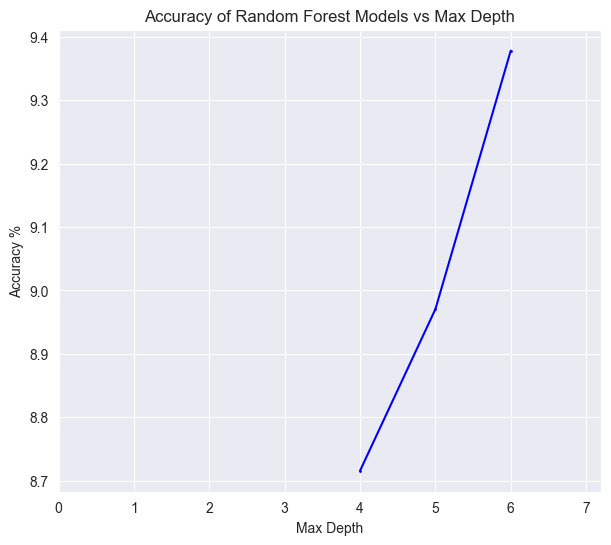
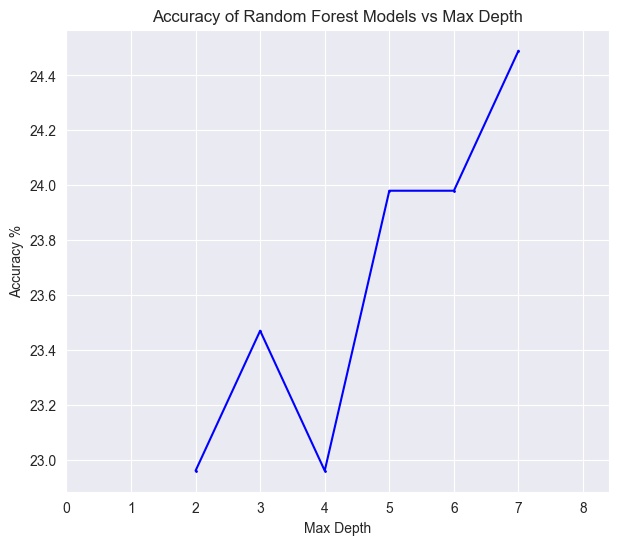
better reults with genre consolidation and cosine distance

diff --git a/LyricLibrary.py b/LyricLibrary.py
@@ -22,7 +22,7 @@ class LyricLibrary:
     This class can download song data from spotify and genius.
     """
     # columns = ['name', 'artists', 'genre', 'spotifyID', 'lyrics']
-    song_data = pd.read_csv("lyrics_200_per.csv").drop(columns=['Unnamed: 0']).dropna().reset_index(drop=True)
+    song_data = pd.read_csv("lyrics_5000.csv").drop(columns=['Unnamed: 0']).dropna().reset_index(drop=True)
     # Accuracy results
     knn_results = pd.DataFrame(columns=["Number Neighbors", "Accuracy"])
     # TODO: Should we use min_sample_split?
@@ -35,8 +35,7 @@ class LyricLibrary:
         specific_to_general = get_specific_to_general()
         for index in range(len(self.song_data)):
             new_genre = specific_to_general[self.song_data.iloc[index]['genre']]
-            if new_genre == 'removed'
-
+            self.song_data.iloc[index]['genre'] = new_genre
 
     def clean_lyrics(self) -> None:
         """ Remove lyric annotations such as [Chorus] [Verse 1]..
@@ -63,7 +62,7 @@ class LyricLibrary:
             # Convert string to list of strings, remove stopwords, and lemmatize
             lyrics_as_list = song['lyrics'].split()
             lyrics_as_list = [word for word in lyrics_as_list if word not in stop_words]
-            lyrics_as_list= [lemmatizer.lemmatize(word) for word in lyrics_as_list]
+            lyrics_as_list = [lemmatizer.lemmatize(word) for word in lyrics_as_list]
             # convert back from list of strings to string
             song['lyrics'] = " ".join(lyrics_as_list)
 
@@ -171,14 +170,15 @@ class LyricLibrary:
         plt.show()
 
 
-
 if __name__ == "__main__":
     library = LyricLibrary()
+    print(len(library.song_data))
+    library.generalize_genres()
     library.clean_lyrics()
 
-    #library.tfidf()
+    # library.tfidf()
 
-    #library.ML_pipeline("models")
+    # library.ML_pipeline("models")
     # print(library.song_data)
     print(len(library.lyrics))
     print(library.lyrics)
@@ -188,8 +188,8 @@ if __name__ == "__main__":
     # print(n_grams)
 
     sample_models = {
-        "knn": [3, 5, 7, 9, 11],
-        "forest": [4, 5, 6]
+        "knn": [3, 5, 7, 9, 11, 13, 15],
+        "forest": [2, 3, 4, 5, 6, 7]
     }
     library.run_all_models(sample_models)
     print(library.knn_results)
